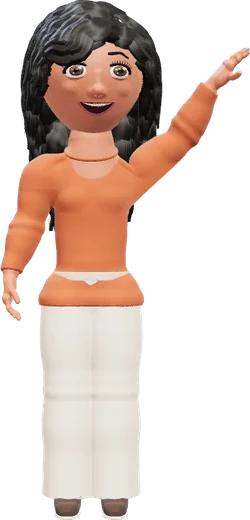
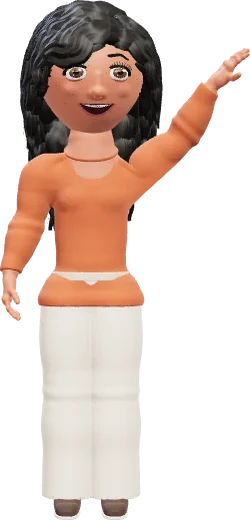
Welcome page: a boy in the middle, nothing cropped
- Middle figure is now Aarav (peace sign) instead of Nia, whose afro was
  cut off at the top edge of the render
- New roomier 'fullroomy' camera frame for starter/welcome art, so big hair
  and raised arms always fit (checked: 80px clear margin above every head)

Claude-Session: https://claude.ai/code/session_011n7UBMF7siA6WHFHfiWuWV

diff --git a/src/features/avatar/editor/thumbs.tsx b/src/features/avatar/editor/thumbs.tsx
@@ -11,7 +11,7 @@ import { DEFAULT_LOOK, type Look } from '../look/config';
  * a time on a warm clay mannequin, and results are cached as image URLs, so
  * scrolling a 100-item grid never creates 100 GL contexts.
  */
-export type ThumbFrame = 'head' | 'face' | 'upper' | 'lower' | 'feet' | 'full' | 'sticker' | 'seated' | 'bag' | 'dress';
+export type ThumbFrame = 'head' | 'face' | 'upper' | 'lower' | 'feet' | 'full' | 'fullroomy' | 'sticker' | 'seated' | 'bag' | 'dress';
 
 const SIZE = 192;
 const CAMS: Record<ThumbFrame, { pos: [number, number, number]; target: [number, number, number]; fov: number }> = {
@@ -25,6 +25,8 @@ const CAMS: Record<ThumbFrame, { pos: [number, number, number]; target: [number,
   /** Shoulders to shins, so prints on dresses read clearly. */
   dress: { pos: [0, 1.12, 3.5], target: [0, 1.06, 0], fov: 30 },
   full: { pos: [0, 1.26, 4.8], target: [0, 1.2, 0], fov: 30 },
+  // room above the head for big hair and raised arms (welcome / starter art)
+  fullroomy: { pos: [0, 1.34, 5.7], target: [0, 1.3, 0], fov: 30 },
   /** Knees up, with head-room for raised arms (chat stickers). */
   sticker: { pos: [0, 1.5, 3.9], target: [0, 1.45, 0], fov: 30 },
   seated: { pos: [0, 1.05, 3.6], target: [0, 1.0, 0], fov: 30 },

diff --git a/e2e/avatar-harness/dupes.ts b/e2e/avatar-harness/dupes.ts
@@ -108,7 +108,7 @@ export async function presetImages() {
   for (let k = 0; k < ids.length; k++) {
     const i = ids[k];
     const look = poses[k] ? { ...PRESETS[i].look, pose: poses[k] as never } : PRESETS[i].look;
-    const url = await renderThumb(`preset:${i}:${poses[k] ?? ''}`, look, 'full', false, 640);
+    const url = await renderThumb(`preset:${i}:${poses[k] ?? ''}`, look, 'fullroomy', false, 640);
     const blob = await (await fetch(url)).blob();
     out.push(await new Promise<string>((r) => { const fr = new FileReader(); fr.onload = () => r(fr.result as string); fr.readAsDataURL(blob); }));
   }

diff --git a/src/features/auth/WelcomePage.tsx b/src/features/auth/WelcomePage.tsx
@@ -10,7 +10,7 @@ export default function WelcomePage() {
   if (!params.get('fresh') && savedAccounts.list().length > 0) return <Navigate to="/accounts" replace />;
   const figs = [
     { src: '/welcome/meera.webp', h: 210 },
-    { src: '/welcome/nia.webp', h: 240 },
+    { src: '/welcome/aarav.webp', h: 240 },
     { src: '/welcome/zoe.webp', h: 210 },
   ];
   return (
